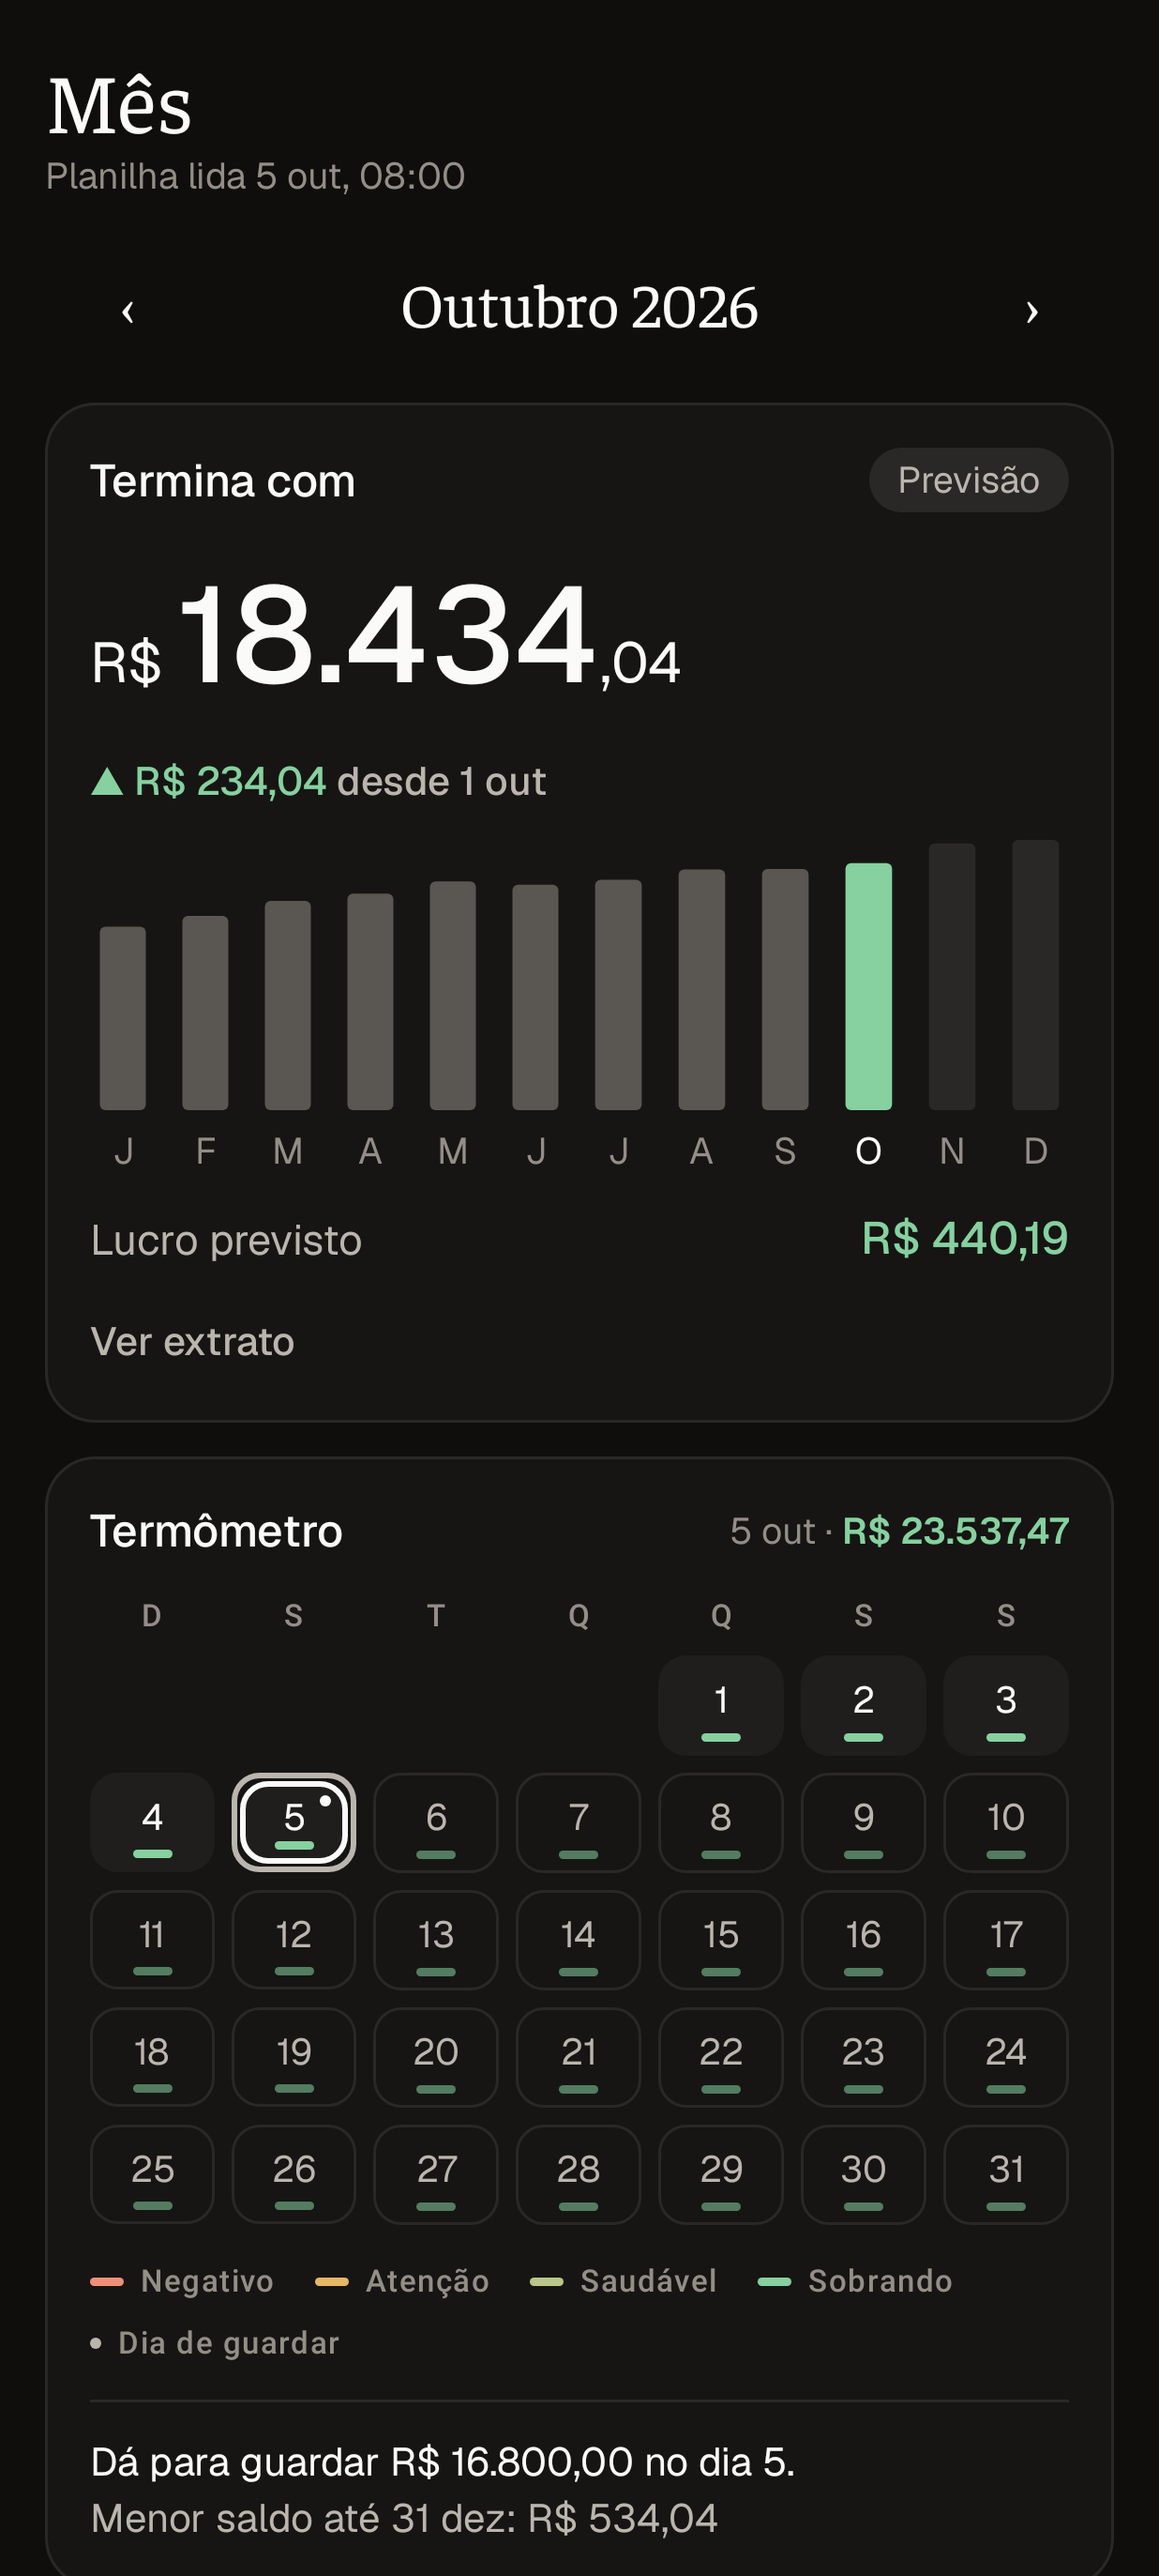
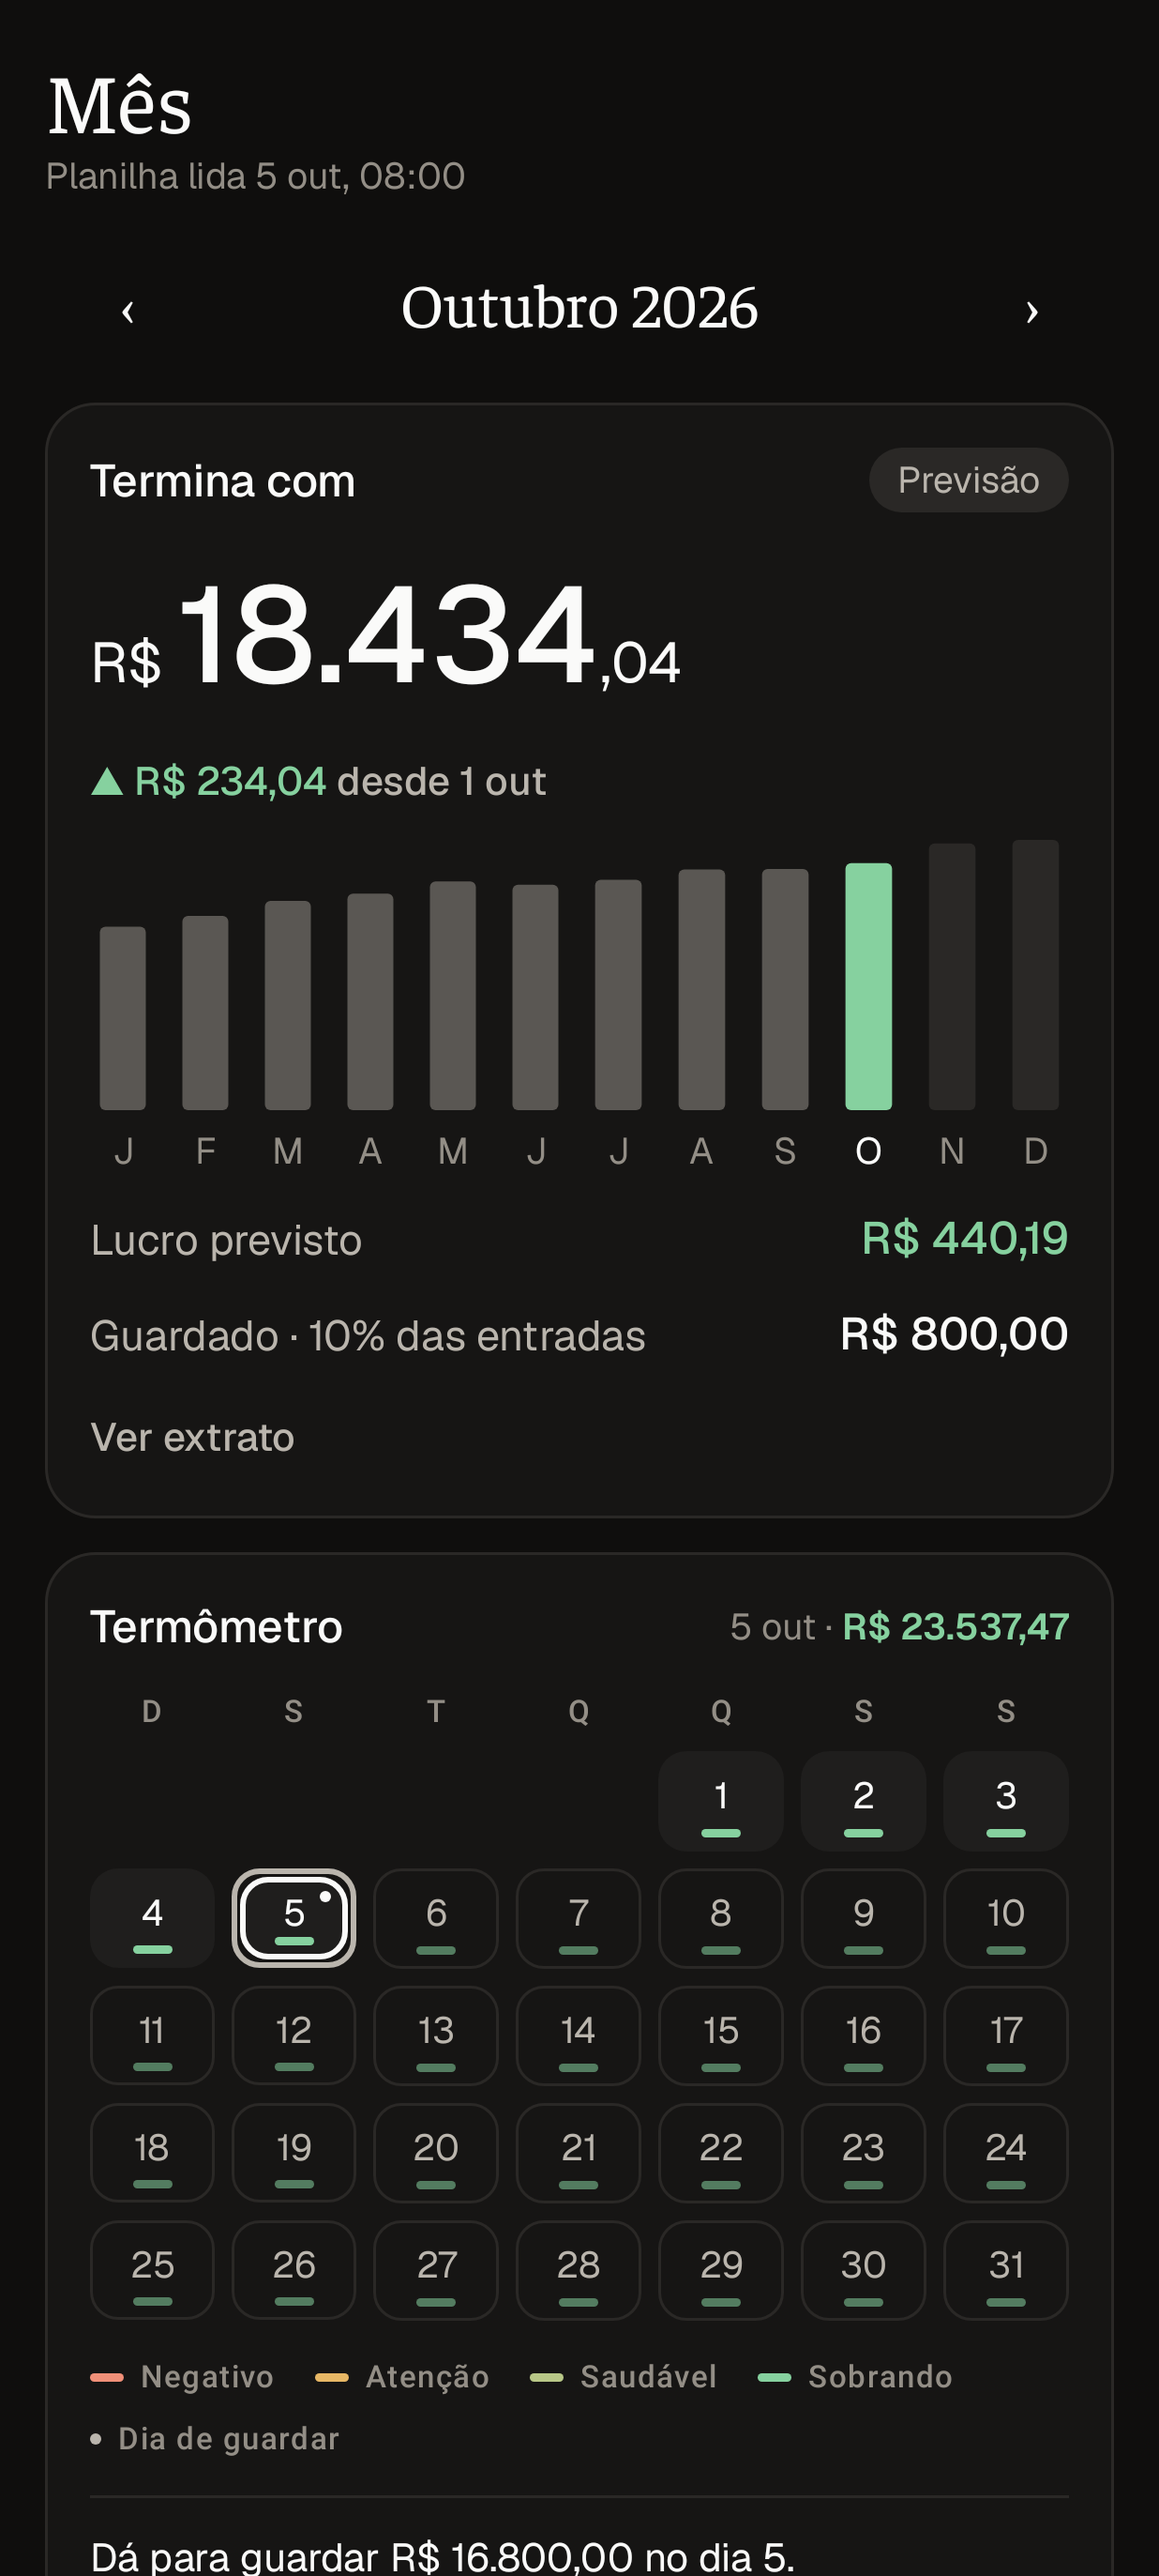
Mostra no Mês quanto foi guardado e o custo de vida, como a aba Economia do método
A planilha separa o que sai para investir do que é gasto: a taxa de economia (guardado sobre
entradas, meta de 20 a 30%) é a métrica que o método manda acompanhar, e o custo de vida (saídas e
diário sem o que foi guardado) é a base da reserva de emergência. O Neko só mostrava o lucro do mês,
que mistura as duas coisas. O motor agora soma as linhas sob "Investimento:" nas notas de Saída e dá
saved, savedShare e livingCost por mês; site e app mostram "Guardado · N% das entradas" e, no
extrato, o custo de vida. PIPELINE_VERSION 31, app 0.11.0.

Claude-Session: https://claude.ai/code/session_015UfAVEud4xVYg8W2DXLZ8D

diff --git a/packages/engine/src/projection.ts b/packages/engine/src/projection.ts
@@ -114,7 +114,19 @@ export interface MonthView {
   readonly fixedTotal: Cents;
   /** Every day of the month on the termômetro, in order. */
   readonly days: readonly ThermoDay[];
+  /**
+   * Saída lines under an `Investimento:` header: money kept, not spent. The method's Economia
+   * (aulas/02 … 03-aula-3-analises-e-cenarios [18:58]).
+   */
+  readonly saved: Cents;
+  /** saved / entrada as a whole percent, rounded; null without income. The method aims at 20–30%. */
+  readonly savedShare: number | null;
+  /** Saída plus diário minus what was saved: what the month cost to live (curso 05, aula 01). */
+  readonly livingCost: Cents;
 }
+
+/** `Investimento:`, `INVESTIMENTOS` and the like, however the owner spells the header. */
+const isSavingItem = (i: NoteItem): boolean => i.section?.startsWith("invest") ?? false;
 
 export interface UpcomingItem {
   readonly date: LocalDate;
@@ -396,12 +408,16 @@ export const project = (ledger: Ledger, today: LocalDate, settings: Settings): P
         fixed,
         fixedTotal: add(ZERO, ...fixed.map((f) => f.amount)),
         days: [],
+        saved: ZERO,
+        savedShare: null,
+        livingCost: ZERO,
       };
       months.push(m);
     }
     const entrada = add(m.entrada, row.entrada.amount);
     const saida = add(m.saida, row.saida.amount);
     const diario = add(m.diario, row.diario.amount);
+    const saved = add(m.saved, ...row.saida.items.filter(isSavingItem).map((i) => i.amount));
     const balance = sheetBalance(row.date);
     const moves: DayMove[] = [
       ...cellMoves(row.entrada, () => "income"),
@@ -428,6 +444,9 @@ export const project = (ledger: Ledger, today: LocalDate, settings: Settings): P
       sobra: sub(entrada, add(saida, diario)),
       endSheet: balance,
       result: sub(balance, m.startBalance),
+      saved,
+      savedShare: entrada > 0 ? Math.round((saved * 100) / entrada) : null,
+      livingCost: sub(add(saida, diario), saved),
     };
   }
 

diff --git a/apps/neko/src/web/screens/Mes.tsx b/apps/neko/src/web/screens/Mes.tsx
@@ -202,6 +202,8 @@ export const Mes = () => {
         // and meaningless on months the sheet has no lines for.
         const moved = (x: MonthView) => x.entrada !== 0 || x.saida !== 0 || x.diario !== 0;
         const result = moved(m) ? (m.result ?? null) : null;
+        // Saída under an "Investimento:" header; missing on caches from before it existed.
+        const saved = m.saved ?? 0;
         return (
           <>
             <div className="month-nav">
@@ -278,6 +280,15 @@ export const Mes = () => {
                   </strong>
                 </p>
               )}
+              {saved > 0 && (
+                <p className="figure-line">
+                  <span className="muted">
+                    Guardado
+                    {m.savedShare !== null && ` · ${m.savedShare}% das entradas`}
+                  </span>
+                  <strong>{money(saved)}</strong>
+                </p>
+              )}
               <details className="formula">
                 <summary>
                   <IconChevron />
@@ -306,6 +317,18 @@ export const Mes = () => {
                     {result < 0 ? "desceu" : "subiu"} no mês. Dinheiro guardado também sai da conta,
                     então um mês em que você economizou pode aparecer como prejuízo.
                   </p>
+                )}
+                {saved > 0 && (
+                  <>
+                    <dl className="ledger">
+                      <dt className="total">Custo de vida</dt>
+                      <dd className="total">{money(m.livingCost)}</dd>
+                    </dl>
+                    <p>
+                      Custo de vida é o que saiu sem contar o que foi guardado. É a base da reserva
+                      de emergência, que o método pede de 6 a 12 vezes maior.
+                    </p>
+                  </>
                 )}
               </details>
             </section>

diff --git a/apps/android/app/src/main/kotlin/dev/johnlaff/neko/ui/MesScreen.kt b/apps/android/app/src/main/kotlin/dev/johnlaff/neko/ui/MesScreen.kt
@@ -115,6 +115,15 @@ private fun Hero(m: MonthItem, year: List<MonthItem>, history: HistoryView?, onP
                 )
             }
         }
+        if (m.saved > 0) {
+            Row(
+                Modifier.fillMaxWidth().semantics(mergeDescendants = true) {},
+                horizontalArrangement = Arrangement.SpaceBetween,
+            ) {
+                Text("Guardado" + (m.savedShare?.let { " · $it% das entradas" } ?: ""), color = l.muted)
+                Text(money(m.saved), style = MaterialTheme.typography.titleMedium)
+            }
+        }
         TextAction(if (ledger) "Esconder extrato" else "Ver extrato", { ledger = !ledger })
         Reveal(ledger) {
             Column(verticalArrangement = Arrangement.spacedBy(6.dp)) {
@@ -129,6 +138,15 @@ private fun Hero(m: MonthItem, year: List<MonthItem>, history: HistoryView?, onP
                 Text(
                     "${if (r < 0) "Prejuízo" else "Lucro"} é quanto o saldo ${if (r < 0) "desceu" else "subiu"} no mês. " +
                         "Dinheiro guardado também sai da conta, então um mês em que você economizou pode aparecer como prejuízo.",
+                    color = l.muted,
+                    style = MaterialTheme.typography.bodyMedium,
+                )
+            }
+            if (m.saved > 0) {
+                LedgerLine("Custo de vida", money(m.livingCost), total = true)
+                Text(
+                    "Custo de vida é o que saiu sem contar o que foi guardado. É a base da reserva de emergência, " +
+                        "que o método pede de 6 a 12 vezes maior.",
                     color = l.muted,
                     style = MaterialTheme.typography.bodyMedium,
                 )

diff --git a/packages/engine/test/projection.test.ts b/packages/engine/test/projection.test.ts
@@ -73,6 +73,27 @@ describe("credit mode projection", () => {
     expect(p.months.map((m) => m.result)).toEqual([0, -450_00, 0]);
   });
 
+  it("separates what the month saved from what it cost, as the method's Economia does", () => {
+    // Nov: R$ 5.000 in; R$ 1.000 out, of which R$ 300 under "Investimento:" and R$ 200 under
+    // "INVESTIMENTOS"; R$ 150 of diário.
+    const l = ledger("2026-10-01", 92, 10_000_00, {
+      "2026-11-05": { entrada: cell(5000_00, [item(5000_00, "Salário", null)]) },
+      "2026-11-06": {
+        saida: cell(1000_00, [
+          item(300_00, "Previdência", "investimento"),
+          item(200_00, "Tesouro", "investimentos"),
+          item(500_00, "Visa"),
+        ]),
+        diario: cell(150_00),
+      },
+    });
+    const nov = project(l, today, settings()).months.find((m) => m.month === 11);
+    expect(nov).toMatchObject({ saved: 500_00, savedShare: 10, livingCost: 650_00 });
+    // No income, no share: a ratio over nothing says nothing.
+    const dec = project(l, today, settings()).months.find((m) => m.month === 12);
+    expect(dec).toMatchObject({ saved: 0, savedShare: null, livingCost: 0 });
+  });
+
   it("a configured cycle budget wins over diário × days", () => {
     expect(project(base(), today, settings({ cycleBudget: cents(2000_00) })).canSpend?.perDay).toBe(
       103_33,

diff --git a/apps/neko/src/shared/screens.ts b/apps/neko/src/shared/screens.ts
@@ -152,6 +152,11 @@ export interface MonthItem {
   readonly fixedTotal: number;
   /** The termômetro: each day's balance and band, with what moved it. */
   readonly days: readonly ThermoDay[];
+  /** Saída under an `Investimento:` header, its share of entradas (whole %, null without income). */
+  readonly saved: number;
+  readonly savedShare: number | null;
+  /** Saída plus diário minus what was saved. */
+  readonly livingCost: number;
 }
 
 export interface MonthsView {
@@ -188,6 +193,9 @@ export const monthsView = (r: ProjectionResponse): MonthsView => {
       fixed: m.fixed,
       fixedTotal: m.fixedTotal,
       days: m.days,
+      saved: m.saved,
+      savedShare: m.savedShare,
+      livingCost: m.livingCost,
     };
   });
   const current = months.find((m) => m.key === nowKey) ?? months[0];

diff --git a/apps/android/app/src/test/kotlin/dev/johnlaff/neko/ScreensContractTest.kt b/apps/android/app/src/test/kotlin/dev/johnlaff/neko/ScreensContractTest.kt
@@ -33,6 +33,10 @@ class ScreensContractTest {
         assertTrue(v.months.first().past)
         assertTrue(now.days.isNotEmpty())
         assertTrue(now.days.all { it.band in setOf("negative", "attention", "healthy", "surplus") })
+        // What the month kept, and what it cost without that.
+        assertTrue(now.saved > 0)
+        assertEquals(now.saida + now.diario - now.saved, now.livingCost)
+        assertTrue(now.savedShare != null)
     }
 
     @Test fun simulate() {

diff --git a/apps/android/app/src/main/kotlin/dev/johnlaff/neko/data/Screens.kt b/apps/android/app/src/main/kotlin/dev/johnlaff/neko/data/Screens.kt
@@ -79,6 +79,11 @@ data class MonthItem(
     val fixedTotal: Long = 0,
     /** The termômetro: each day's balance and band, with what moved it. */
     val days: List<ThermoDay> = emptyList(),
+    /** Saída under an "Investimento:" header, and its whole-percent share of entradas. */
+    val saved: Long = 0,
+    val savedShare: Int? = null,
+    /** Saída plus diário minus what was saved. */
+    val livingCost: Long = 0,
 )
 
 @Serializable

diff --git a/apps/neko/src/worker/pipeline.ts b/apps/neko/src/worker/pipeline.ts
@@ -26,7 +26,7 @@ import { accessToken, fileVersion, spreadsheet, tabs } from "./google.ts";
 import { loadSettings, settingsHash } from "./settings.ts";
 
 /** Increment when the engine or reader changes output, so cached projections are recomputed. */
-const PIPELINE_VERSION = "30";
+const PIPELINE_VERSION = "31";
 
 /**
  * A cached projection still says when the sheet was last checked: the Drive call above just

diff --git a/specs/001-fase-1/spec.md b/specs/001-fase-1/spec.md
@@ -29,6 +29,10 @@ viram itens de saúde), e o "pode gastar hoje" faz sentido para o ciclo atual do
 - Saúde: data vazia, nota que não soma com a célula, saldo que não bate, linha de nota ilegível e
   fatura vencida sem linha na nota de Saída (só a última de cada cartão com fatura nos dois meses
   anteriores; vale até 3 dias de folga em torno do vencimento, e R$ 0,00 conta como lançada).
+- Guardado do mês = soma das linhas da nota de Saída sob um cabeçalho que começa com `Invest`
+  (`Investimento:`, `INVESTIMENTOS`). Taxa de economia = guardado ÷ entradas, em % inteiro (sem
+  entradas, não há taxa). Custo de vida = saídas + diário − guardado. Nada é previsto: meses
+  futuros só mostram o que já está na planilha.
 - "Dia passado sem diário" não vira item de saúde: no modo crédito o diário fica vazio de
   propósito, porque o gasto vai para a fatura. O alerta marcaria todos os dias.
 
